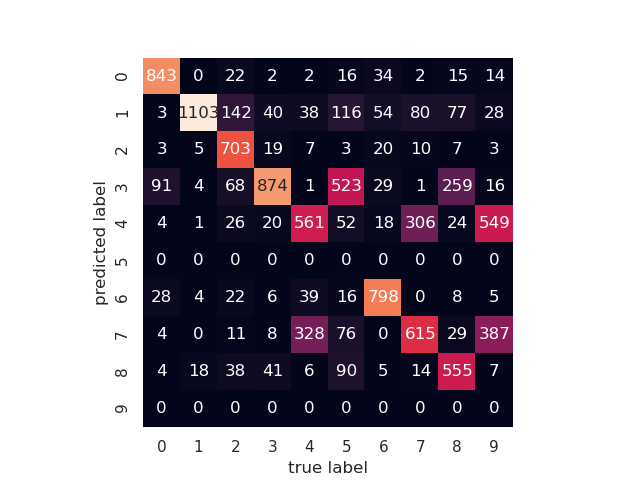
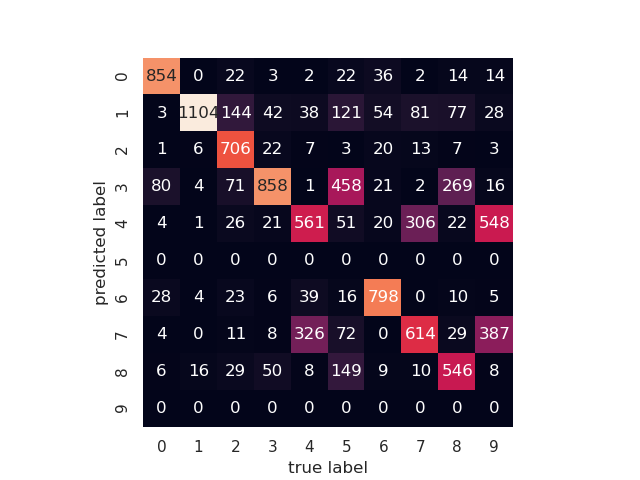
Updates Docstring and vectorizes accuracy function

diff --git a/KMeans/src/main.py b/KMeans/src/main.py
@@ -12,12 +12,22 @@ from scipy.stats import mode
 class Kmeans:
     ''' Kmeans class'''
     
-    def __init__(self, n_clusters=10, max_itr=300, rseed=2):
+    def __init__(self, n_clusters=10, max_itr=30, rseed=2):
+        ''' Initialization
+
+        :param n_clusters: Number of clusters
+        :param max_itr: Maximum of iterations to perform
+        :param rseed: Random State seed
+        '''
         self.n_clusters = n_clusters
         self.max_itr = max_itr
         self.rseed = rseed
 
     def init_centroids(self, X):
+        '''Initialize random centroid
+        :param X: data
+        :returns: numpy array including Centroids 
+        '''
         np.random.RandomState(self.rseed)
         
         # n_clusters number of Random index to select entroids
@@ -29,7 +39,11 @@ class Kmeans:
         return centroids
 
     def get_distance(self, X, centroids):
-        
+        ''' Calculate distance
+        :param X: data
+        :param centroids: Numpy array
+        :returns: Numpy array having calculated distance between X and centroids
+        '''
         # Initialize zero numpy arrays of dim (60000, 10) 
         # to store distance of each point with respect to each cluster
         distance = np.zeros((X.shape[0], self.n_clusters))
@@ -42,7 +56,11 @@ class Kmeans:
         return distance
 
     def calculate_centroids(self, X, labels):
-        
+        ''' Calculate centroids
+        :param X: data
+        :param labels: Numpy array of labels
+        :returns: Numpy array of centroids
+        '''
         # Initialize centroids of dim (10, 784)
         centroids = np.zeros((self.n_clusters, X.shape[1]))
         for k in range(self.n_clusters):
@@ -56,6 +74,7 @@ class Kmeans:
         return np.argmin(distance, axis=1)
     
     def fit(self, X):
+        ''' Fit the given data'''
         # Initialize centroids to random points
         self.centroids = self.init_centroids(X)
 
@@ -72,11 +91,12 @@ class Kmeans:
                 break
 
     def predict(self, X):
+        ''' Predict data'''
         distance = self.get_distance(X, self.old_centroids)
         return self.get_closest_cluster(distance)
 
 def load_data():
-
+    ''' Load MNIST data from local file'''
     files = ['../data/train-images.idx3-ubyte', '../data/train-labels.idx1-ubyte',
             '../data/t10k-images.idx3-ubyte', '../data/t10k-labels.idx1-ubyte']
     for file_ in files:
@@ -97,6 +117,7 @@ def load_data():
     return X, y, test_X, test_y
 
 def get_labels(n_clusters, clusters, actual_label):
+    ''' Returns labels of data'''
     labels = np.zeros_like(clusters)
     for i in range(n_clusters):
         mask = (clusters == i)
@@ -104,10 +125,15 @@ def get_labels(n_clusters, clusters, actual_label):
     return labels
 
 def accuracy_metric(actual, predicted):
-    correct = 0
-    for i in range(len(actual)):
-        if actual[i] == predicted[i]:
-            correct += 1
+    ''' Finds accuracy '''
+    #correct = 0
+    #for i in range(len(actual)):
+    #    if actual[i] == predicted[i]:
+    #        correct += 1
+    
+    num = np.equal(actual, predicted)
+    # sum the number of True in np array
+    correct = np.sum(num)
     return correct / float(len(actual)) * 100.0
 
 
